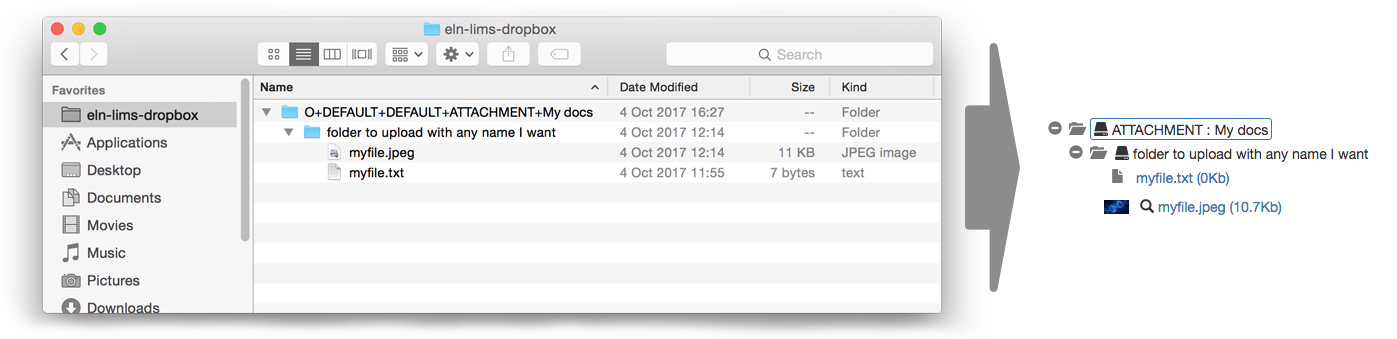
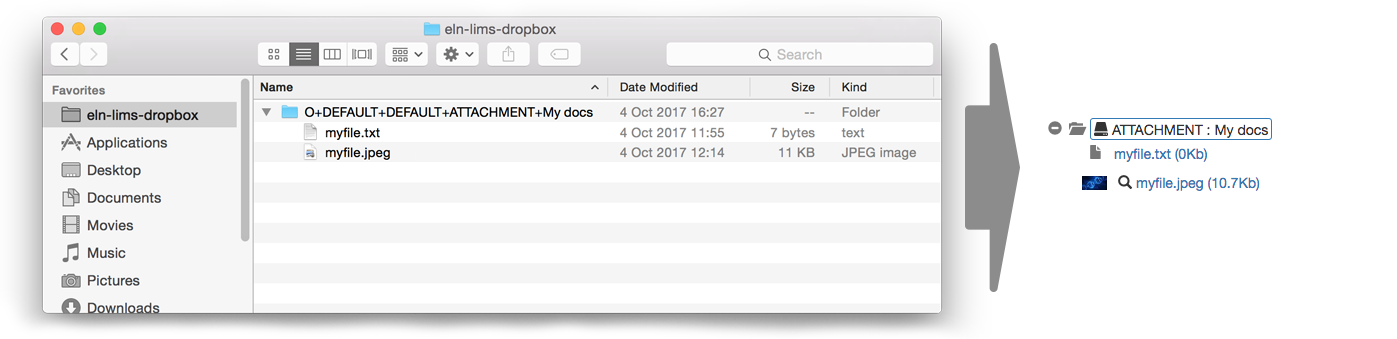
SSDM-13360: Changed the description of the helper tool for ELN dropbox

diff --git a/ui-eln-lims/src/core-plugins/eln-lims/1/as/webapps/eln-lims/html/js/util/FormUtil.js b/ui-eln-lims/src/core-plugins/eln-lims/1/as/webapps/eln-lims/html/js/util/FormUtil.js
@@ -1543,8 +1543,7 @@ var FormUtil = new function() {
 								.append("<center><b>Screenshot example showing the eln-lims dropbox network folder and how the results will be visualized in the ELN after upload</b></center>")
 								.append("The eln-lims dropbox requires a root folder with a specific name. This name contains information on where the data should be uploaded.").append("<br>")
 								.append("1. Generate the name of the root folder with this helper tool using the form below.").append("<br>")
-								.append("2. The root folder should contain another folder, with a name of your choice, with the data to upload. This can have as many layers as needed.").append("<br>")
-								.append("3. The upload will be triggered automatically and the data will become visible in the object/experiment to which it was uploaded.").append("<br>");
+								.append("2. The upload will be triggered automatically and the data will become visible in the object/experiment to which it was uploaded.").append("<br>");
 								
 
 			// dataset type dropdown
